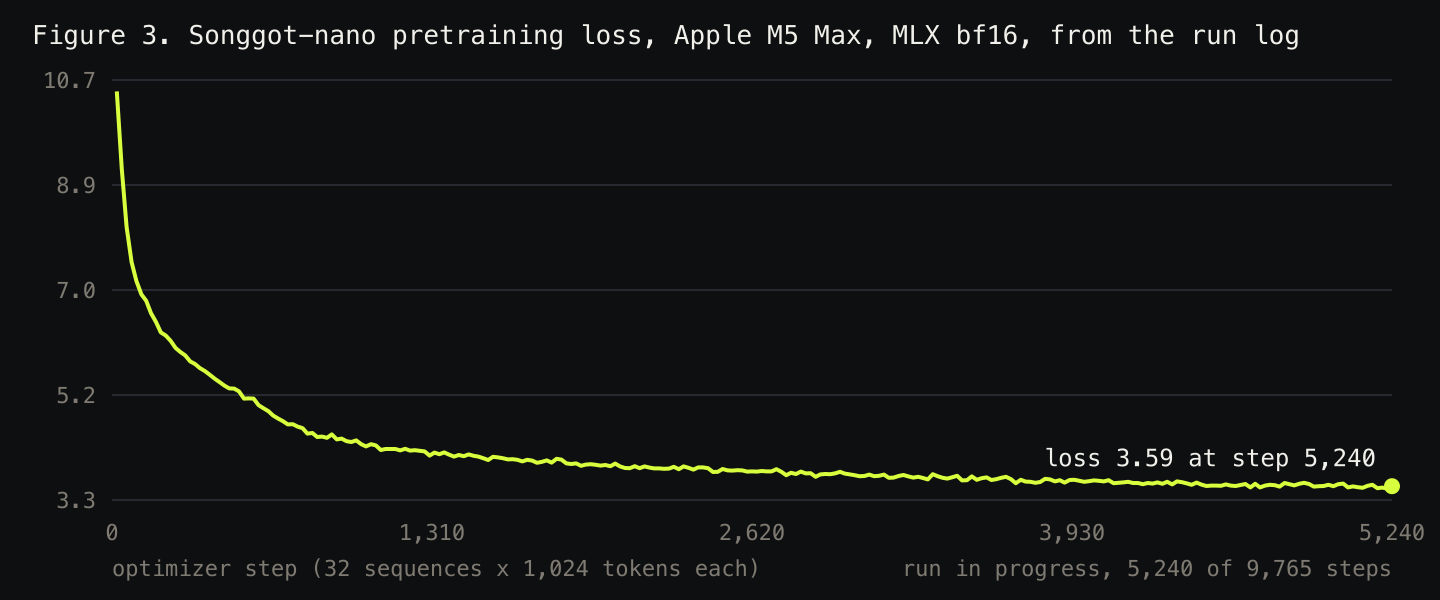
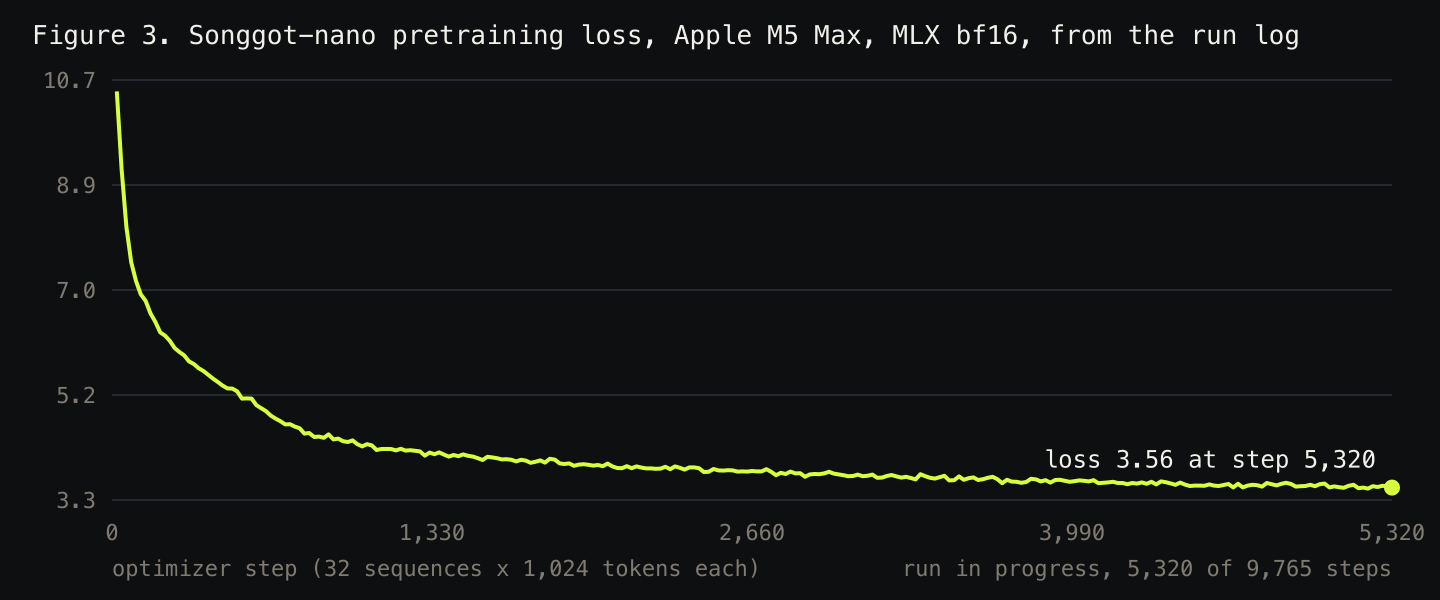
Pocket: per-request stats line, follow-up chips, model chip

diff --git a/docs/index.html b/docs/index.html
@@ -78,7 +78,7 @@ are released under Apache 2.0.</p>
 layers, 39M parameters, pretrained on an Apple M5 Max with MLX (320M tokens); Songgot, 12 layers,
 about 50M parameters, 8xH100 run on 6B tokens queued behind GPU budget.
 Exports to safetensors, GGUF (f16, Q8_0, Q4_K_M) and runs under llama.cpp.</p>
-<figure class="fig"><svg xmlns="http://www.w3.org/2000/svg" viewBox="0 0 720 300" width="100%" role="img" aria-label="Figure 3. Songgot-nano pretraining loss, Apple M5 Max, MLX bf16, from the run log" font-family="IBM Plex Mono, Menlo, monospace" font-size="12"><rect width="720" height="300" fill="#0e0f11"/><text x="16" y="22" fill="#f2f0ea" font-size="13" font-weight="500">Figure 3. Songgot-nano pretraining loss, Apple M5 Max, MLX bf16, from the run log</text><line x1="56" x2="696" y1="250.0" y2="250.0" stroke="#262a30"/><text x="48" y="254.0" fill="#7f7b72" text-anchor="end" font-size="11">3.3</text><line x1="56" x2="696" y1="197.5" y2="197.5" stroke="#262a30"/><text x="48" y="201.5" fill="#7f7b72" text-anchor="end" font-size="11">5.2</text><line x1="56" x2="696" y1="145.0" y2="145.0" stroke="#262a30"/><text x="48" y="149.0" fill="#7f7b72" text-anchor="end" font-size="11">7.0</text><line x1="56" x2="696" y1="92.5" y2="92.5" stroke="#262a30"/><text x="48" y="96.5" fill="#7f7b72" text-anchor="end" font-size="11">8.9</text><line x1="56" x2="696" y1="40.0" y2="40.0" stroke="#262a30"/><text x="48" y="44.0" fill="#7f7b72" text-anchor="end" font-size="11">10.7</text><text x="56.0" y="270" fill="#7f7b72" text-anchor="middle" font-size="11">0</text><text x="216.0" y="270" fill="#7f7b72" text-anchor="middle" font-size="11">1,310</text><text x="376.0" y="270" fill="#7f7b72" text-anchor="middle" font-size="11">2,620</text><text x="536.0" y="270" fill="#7f7b72" text-anchor="middle" font-size="11">3,930</text><text x="696.0" y="270" fill="#7f7b72" text-anchor="middle" font-size="11">5,240</text><path d="M58.4,45.7 L60.9,84.6 L63.3,113.5 L65.8,131.1 L68.2,140.5 L70.7,147.2 L73.1,150.4 L75.5,156.6 L78.0,161.0 L80.4,166.2 L82.9,167.8 L85.3,170.4 L87.8,174.0 L90.2,176.0 L92.6,177.7 L95.1,180.7 L97.5,182.0 L100.0,184.1 L102.4,185.5 L104.9,187.4 L107.3,189.3 L109.7,191.0 L112.2,192.8 L114.6,194.2 L117.1,194.3 L119.5,195.7 L122.0,199.3 L124.4,199.2 L126.8,199.3 L129.3,202.6 L131.7,204.1 L134.2,205.6 L136.6,207.8 L139.1,209.3 L141.5,210.6 L143.9,212.2 L146.4,212.1 L148.8,213.3 L151.3,214.1 L153.7,216.8 L156.2,216.5 L158.6,218.5 L161.0,218.3 L163.5,218.9 L165.9,217.2 L168.4,219.7 L170.8,219.3 L173.3,220.6 L175.7,221.0 L178.1,220.2 L180.6,222.1 L183.0,223.2 L185.5,222.1 L187.9,222.7 L190.4,225.0 L192.8,224.5 L195.2,224.5 L197.7,224.5 L200.1,225.2 L202.6,224.4 L205.0,225.3 L207.5,225.1 L209.9,225.4 L212.3,225.7 L214.8,227.8 L217.2,226.3 L219.7,227.1 L222.1,226.2 L224.5,227.3 L227.0,228.3 L229.4,227.5 L231.9,228.1 L234.3,227.2 L236.8,227.9 L239.2,228.3 L241.6,229.1 L244.1,230.0 L246.5,228.4 L249.0,228.7 L251.4,229.1 L253.9,229.7 L256.3,229.6 L258.7,229.9 L261.2,230.7 L263.6,229.9 L266.1,230.3 L268.5,231.4 L271.0,230.9 L273.4,230.2 L275.8,231.3 L278.3,229.4 L280.7,229.8 L283.2,231.7 L285.6,232.0 L288.1,231.7 L290.5,232.9 L292.9,232.3 L295.4,232.1 L297.8,232.4 L300.3,232.8 L302.7,232.5 L305.2,233.1 L307.6,231.8 L310.0,233.2 L312.5,234.0 L314.9,234.1 L317.4,233.1 L319.8,234.1 L322.3,233.2 L324.7,233.8 L327.1,234.2 L329.6,234.2 L332.0,234.4 L334.5,234.3 L336.9,233.4 L339.4,234.6 L341.8,233.2 L344.2,233.9 L346.7,234.8 L349.1,233.7 L351.6,233.7 L354.0,234.1 L356.5,236.0 L358.9,235.9 L361.3,234.5 L363.8,235.2 L366.2,235.3 L368.7,235.1 L371.1,235.2 L373.6,235.8 L376.0,235.7 L378.4,235.8 L380.9,235.5 L383.3,235.7 L385.8,235.7 L388.2,234.6 L390.7,235.9 L393.1,237.6 L395.5,236.4 L398.0,237.0 L400.4,235.8 L402.9,236.7 L405.3,236.6 L407.8,238.4 L410.2,237.2 L412.6,237.0 L415.1,237.1 L417.5,236.7 L420.0,235.9 L422.4,236.8 L424.9,237.2 L427.3,237.6 L429.7,238.1 L432.2,238.0 L434.6,237.3 L437.1,238.1 L439.5,237.9 L442.0,237.3 L444.4,238.9 L446.8,238.8 L449.3,238.0 L451.7,237.5 L454.2,238.2 L456.6,238.8 L459.1,238.4 L461.5,239.0 L463.9,239.7 L466.4,237.1 L468.8,238.1 L471.3,238.9 L473.7,239.3 L476.2,238.6 L478.6,237.9 L481.0,240.2 L483.5,240.1 L485.9,238.2 L488.4,239.9 L490.8,239.1 L493.3,238.7 L495.7,240.0 L498.1,239.6 L500.6,238.9 L503.0,238.4 L505.5,239.6 L507.9,241.6 L510.4,239.9 L512.8,240.8 L515.2,240.9 L517.7,241.4 L520.1,241.0 L522.6,239.4 L525.0,239.7 L527.5,240.7 L529.9,240.1 L532.3,241.3 L534.8,240.0 L537.2,239.9 L539.7,240.4 L542.1,240.9 L544.5,240.6 L547.0,240.2 L549.4,240.4 L551.9,240.7 L554.3,240.1 L556.8,241.6 L559.2,241.4 L561.6,241.2 L564.1,240.9 L566.5,241.5 L569.0,241.5 L571.4,242.1 L573.9,241.5 L576.3,241.8 L578.7,241.2 L581.2,241.9 L583.6,240.9 L586.1,242.2 L588.5,240.7 L591.0,241.1 L593.4,241.7 L595.8,242.4 L598.3,241.3 L600.7,242.3 L603.2,243.0 L605.6,242.8 L608.1,242.8 L610.5,242.9 L612.9,242.2 L615.4,242.8 L617.8,243.0 L620.3,242.5 L622.7,242.0 L625.2,243.7 L627.6,241.9 L630.0,243.7 L632.5,242.8 L634.9,242.4 L637.4,242.6 L639.8,243.3 L642.3,241.5 L644.7,242.1 L647.1,242.7 L649.6,241.9 L652.0,241.4 L654.5,242.0 L656.9,243.3 L659.4,243.1 L661.8,243.0 L664.2,242.4 L666.7,243.1 L669.1,242.1 L671.6,241.8 L674.0,243.7 L676.5,243.2 L678.9,243.6 L681.3,243.9 L683.8,242.9 L686.2,242.4 L688.7,244.1 L691.1,243.8 L693.6,244.3 L696.0,243.1" fill="none" stroke="#d8ff3d" stroke-width="2" stroke-linejoin="round"/><circle cx="696.0" cy="243.1" r="4" fill="#d8ff3d"/><text x="688.0" y="233.1" fill="#f2f0ea" text-anchor="end">loss 3.59 at step 5,240</text><text x="56" y="288" fill="#7f7b72" font-size="11">optimizer step (32 sequences x 1,024 tokens each)</text><text x="696" y="288" fill="#7f7b72" text-anchor="end" font-size="11">run in progress, 5,240 of 9,765 steps</text></svg><figcaption>Figure 3. Songgot-nano pretraining loss on the Mac, read from the run log</figcaption></figure>
+<figure class="fig"><svg xmlns="http://www.w3.org/2000/svg" viewBox="0 0 720 300" width="100%" role="img" aria-label="Figure 3. Songgot-nano pretraining loss, Apple M5 Max, MLX bf16, from the run log" font-family="IBM Plex Mono, Menlo, monospace" font-size="12"><rect width="720" height="300" fill="#0e0f11"/><text x="16" y="22" fill="#f2f0ea" font-size="13" font-weight="500">Figure 3. Songgot-nano pretraining loss, Apple M5 Max, MLX bf16, from the run log</text><line x1="56" x2="696" y1="250.0" y2="250.0" stroke="#262a30"/><text x="48" y="254.0" fill="#7f7b72" text-anchor="end" font-size="11">3.3</text><line x1="56" x2="696" y1="197.5" y2="197.5" stroke="#262a30"/><text x="48" y="201.5" fill="#7f7b72" text-anchor="end" font-size="11">5.2</text><line x1="56" x2="696" y1="145.0" y2="145.0" stroke="#262a30"/><text x="48" y="149.0" fill="#7f7b72" text-anchor="end" font-size="11">7.0</text><line x1="56" x2="696" y1="92.5" y2="92.5" stroke="#262a30"/><text x="48" y="96.5" fill="#7f7b72" text-anchor="end" font-size="11">8.9</text><line x1="56" x2="696" y1="40.0" y2="40.0" stroke="#262a30"/><text x="48" y="44.0" fill="#7f7b72" text-anchor="end" font-size="11">10.7</text><text x="56.0" y="270" fill="#7f7b72" text-anchor="middle" font-size="11">0</text><text x="216.0" y="270" fill="#7f7b72" text-anchor="middle" font-size="11">1,330</text><text x="376.0" y="270" fill="#7f7b72" text-anchor="middle" font-size="11">2,660</text><text x="536.0" y="270" fill="#7f7b72" text-anchor="middle" font-size="11">3,990</text><text x="696.0" y="270" fill="#7f7b72" text-anchor="middle" font-size="11">5,320</text><path d="M58.4,45.7 L60.8,84.6 L63.2,113.5 L65.6,131.1 L68.0,140.5 L70.4,147.2 L72.8,150.4 L75.2,156.6 L77.7,161.0 L80.1,166.2 L82.5,167.8 L84.9,170.4 L87.3,174.0 L89.7,176.0 L92.1,177.7 L94.5,180.7 L96.9,182.0 L99.3,184.1 L101.7,185.5 L104.1,187.4 L106.5,189.3 L108.9,191.0 L111.3,192.8 L113.7,194.2 L116.2,194.3 L118.6,195.7 L121.0,199.3 L123.4,199.2 L125.8,199.3 L128.2,202.6 L130.6,204.1 L133.0,205.6 L135.4,207.8 L137.8,209.3 L140.2,210.6 L142.6,212.2 L145.0,212.1 L147.4,213.3 L149.8,214.1 L152.2,216.8 L154.6,216.5 L157.1,218.5 L159.5,218.3 L161.9,218.9 L164.3,217.2 L166.7,219.7 L169.1,219.3 L171.5,220.6 L173.9,221.0 L176.3,220.2 L178.7,222.1 L181.1,223.2 L183.5,222.1 L185.9,222.7 L188.3,225.0 L190.7,224.5 L193.1,224.5 L195.5,224.5 L198.0,225.2 L200.4,224.4 L202.8,225.3 L205.2,225.1 L207.6,225.4 L210.0,225.7 L212.4,227.8 L214.8,226.3 L217.2,227.1 L219.6,226.2 L222.0,227.3 L224.4,228.3 L226.8,227.5 L229.2,228.1 L231.6,227.2 L234.0,227.9 L236.5,228.3 L238.9,229.1 L241.3,230.0 L243.7,228.4 L246.1,228.7 L248.5,229.1 L250.9,229.7 L253.3,229.6 L255.7,229.9 L258.1,230.7 L260.5,229.9 L262.9,230.3 L265.3,231.4 L267.7,230.9 L270.1,230.2 L272.5,231.3 L274.9,229.4 L277.4,229.8 L279.8,231.7 L282.2,232.0 L284.6,231.7 L287.0,232.9 L289.4,232.3 L291.8,232.1 L294.2,232.4 L296.6,232.8 L299.0,232.5 L301.4,233.1 L303.8,231.8 L306.2,233.2 L308.6,234.0 L311.0,234.1 L313.4,233.1 L315.8,234.1 L318.3,233.2 L320.7,233.8 L323.1,234.2 L325.5,234.2 L327.9,234.4 L330.3,234.3 L332.7,233.4 L335.1,234.6 L337.5,233.2 L339.9,233.9 L342.3,234.8 L344.7,233.7 L347.1,233.7 L349.5,234.1 L351.9,236.0 L354.3,235.9 L356.8,234.5 L359.2,235.2 L361.6,235.3 L364.0,235.1 L366.4,235.2 L368.8,235.8 L371.2,235.7 L373.6,235.8 L376.0,235.5 L378.4,235.7 L380.8,235.7 L383.2,234.6 L385.6,235.9 L388.0,237.6 L390.4,236.4 L392.8,237.0 L395.2,235.8 L397.7,236.7 L400.1,236.6 L402.5,238.4 L404.9,237.2 L407.3,237.0 L409.7,237.1 L412.1,236.7 L414.5,235.9 L416.9,236.8 L419.3,237.2 L421.7,237.6 L424.1,238.1 L426.5,238.0 L428.9,237.3 L431.3,238.1 L433.7,237.9 L436.2,237.3 L438.6,238.9 L441.0,238.8 L443.4,238.0 L445.8,237.5 L448.2,238.2 L450.6,238.8 L453.0,238.4 L455.4,239.0 L457.8,239.7 L460.2,237.1 L462.6,238.1 L465.0,238.9 L467.4,239.3 L469.8,238.6 L472.2,237.9 L474.6,240.2 L477.1,240.1 L479.5,238.2 L481.9,239.9 L484.3,239.1 L486.7,238.7 L489.1,240.0 L491.5,239.6 L493.9,238.9 L496.3,238.4 L498.7,239.6 L501.1,241.6 L503.5,239.9 L505.9,240.8 L508.3,240.9 L510.7,241.4 L513.1,241.0 L515.5,239.4 L518.0,239.7 L520.4,240.7 L522.8,240.1 L525.2,241.3 L527.6,240.0 L530.0,239.9 L532.4,240.4 L534.8,240.9 L537.2,240.6 L539.6,240.2 L542.0,240.4 L544.4,240.7 L546.8,240.1 L549.2,241.6 L551.6,241.4 L554.0,241.2 L556.5,240.9 L558.9,241.5 L561.3,241.5 L563.7,242.1 L566.1,241.5 L568.5,241.8 L570.9,241.2 L573.3,241.9 L575.7,240.9 L578.1,242.2 L580.5,240.7 L582.9,241.1 L585.3,241.7 L587.7,242.4 L590.1,241.3 L592.5,242.3 L594.9,243.0 L597.4,242.8 L599.8,242.8 L602.2,242.9 L604.6,242.2 L607.0,242.8 L609.4,243.0 L611.8,242.5 L614.2,242.0 L616.6,243.7 L619.0,241.9 L621.4,243.7 L623.8,242.8 L626.2,242.4 L628.6,242.6 L631.0,243.3 L633.4,241.5 L635.8,242.1 L638.3,242.7 L640.7,241.9 L643.1,241.4 L645.5,242.0 L647.9,243.3 L650.3,243.1 L652.7,243.0 L655.1,242.4 L657.5,243.1 L659.9,242.1 L662.3,241.8 L664.7,243.7 L667.1,243.2 L669.5,243.6 L671.9,243.9 L674.3,242.9 L676.8,242.4 L679.2,244.1 L681.6,243.8 L684.0,244.3 L686.4,243.1 L688.8,243.5 L691.2,242.9 L693.6,243.1 L696.0,243.8" fill="none" stroke="#d8ff3d" stroke-width="2" stroke-linejoin="round"/><circle cx="696.0" cy="243.8" r="4" fill="#d8ff3d"/><text x="688.0" y="233.8" fill="#f2f0ea" text-anchor="end">loss 3.56 at step 5,320</text><text x="56" y="288" fill="#7f7b72" font-size="11">optimizer step (32 sequences x 1,024 tokens each)</text><text x="696" y="288" fill="#7f7b72" text-anchor="end" font-size="11">run in progress, 5,320 of 9,765 steps</text></svg><figcaption>Figure 3. Songgot-nano pretraining loss on the Mac, read from the run log</figcaption></figure>
 <h2>3. Tokenizer</h2>
 <p>SentencePiece BPE, 32,000 pieces, byte fallback, digits split, trained on a 300 MB sample:
 Korean Wikipedia 50 percent, fineweb-edu 40 percent, tool-schema JSON 10 percent. Special

diff --git a/app/index.html b/app/index.html
@@ -18,6 +18,7 @@
 body{display:flex;flex-direction:column;height:100dvh}
 header{display:flex;align-items:center;gap:12px;padding:calc(10px + env(safe-area-inset-top)) 16px 10px;border-bottom:1px solid var(--line);background:var(--bg)}
 .logo{font-family:"Black Han Sans",sans-serif;font-size:20px;letter-spacing:.01em}.logo span{color:var(--accent)}
+.model{font-family:"IBM Plex Mono",monospace;font-size:11px;color:var(--ink3);border:1px solid var(--line);border-radius:999px;padding:3px 9px;margin-left:6px}
 .status{margin-left:auto;font-family:"IBM Plex Mono",monospace;font-size:11px;color:var(--ink3);text-transform:uppercase;letter-spacing:.1em;display:flex;align-items:center;gap:8px}
 .dot{width:8px;height:8px;border-radius:50%;background:var(--ink3)}.dot.ok{background:var(--accent)}.dot.busy{background:#ffb84d}
 .bar{height:2px;background:var(--line);position:relative}.bar i{position:absolute;left:0;top:0;height:100%;width:0;background:var(--accent);transition:width .2s}
@@ -47,7 +48,7 @@ details.raw{margin-top:8px;font-family:"IBM Plex Mono",monospace;font-size:12px;
 </head>
 <body>
 <header>
-  <div class="logo">songgot · <span>pocket</span></div>
+  <div class="logo">songgot · <span>pocket</span></div><div class="model" id="model">Songgot-nano · Q8_0 · 39M</div>
   <div class="status"><span class="dot" id="dot"></span><span id="status">loading</span></div>
 </header>
 <div class="bar"><i id="bar"></i></div>
@@ -57,7 +58,7 @@ details.raw{margin-top:8px;font-family:"IBM Plex Mono",monospace;font-size:12px;
   <input id="input" placeholder="무엇을 도와드릴까요? (예: 내일 아침 7시에 알람 맞춰줘)" aria-label="요청" enterkeyhint="send">
   <button class="send" id="send" type="submit" disabled>보내기</button>
 </form>
-<div class="foot">기기 안에서만 실행됩니다. 서버로 전송되는 데이터가 없습니다. Songgot 39M, Apache 2.0 · <a href="../">paper</a></div>
+<div class="foot">기기 안에서만 실행됩니다. 서버로 전송되는 데이터가 없습니다. Runs entirely on this device, nothing leaves it. Songgot 39M, Apache 2.0 · <a href="../">paper</a></div>
 <script type="module" src="app.js"></script>
 </body>
 </html>

diff --git a/docs/app/index.html b/docs/app/index.html
@@ -18,6 +18,7 @@
 body{display:flex;flex-direction:column;height:100dvh}
 header{display:flex;align-items:center;gap:12px;padding:calc(10px + env(safe-area-inset-top)) 16px 10px;border-bottom:1px solid var(--line);background:var(--bg)}
 .logo{font-family:"Black Han Sans",sans-serif;font-size:20px;letter-spacing:.01em}.logo span{color:var(--accent)}
+.model{font-family:"IBM Plex Mono",monospace;font-size:11px;color:var(--ink3);border:1px solid var(--line);border-radius:999px;padding:3px 9px;margin-left:6px}
 .status{margin-left:auto;font-family:"IBM Plex Mono",monospace;font-size:11px;color:var(--ink3);text-transform:uppercase;letter-spacing:.1em;display:flex;align-items:center;gap:8px}
 .dot{width:8px;height:8px;border-radius:50%;background:var(--ink3)}.dot.ok{background:var(--accent)}.dot.busy{background:#ffb84d}
 .bar{height:2px;background:var(--line);position:relative}.bar i{position:absolute;left:0;top:0;height:100%;width:0;background:var(--accent);transition:width .2s}
@@ -47,7 +48,7 @@ details.raw{margin-top:8px;font-family:"IBM Plex Mono",monospace;font-size:12px;
 </head>
 <body>
 <header>
-  <div class="logo">songgot · <span>pocket</span></div>
+  <div class="logo">songgot · <span>pocket</span></div><div class="model" id="model">Songgot-nano · Q8_0 · 39M</div>
   <div class="status"><span class="dot" id="dot"></span><span id="status">loading</span></div>
 </header>
 <div class="bar"><i id="bar"></i></div>
@@ -57,7 +58,7 @@ details.raw{margin-top:8px;font-family:"IBM Plex Mono",monospace;font-size:12px;
   <input id="input" placeholder="무엇을 도와드릴까요? (예: 내일 아침 7시에 알람 맞춰줘)" aria-label="요청" enterkeyhint="send">
   <button class="send" id="send" type="submit" disabled>보내기</button>
 </form>
-<div class="foot">기기 안에서만 실행됩니다. 서버로 전송되는 데이터가 없습니다. Songgot 39M, Apache 2.0 · <a href="../">paper</a></div>
+<div class="foot">기기 안에서만 실행됩니다. 서버로 전송되는 데이터가 없습니다. Runs entirely on this device, nothing leaves it. Songgot 39M, Apache 2.0 · <a href="../">paper</a></div>
 <script type="module" src="app.js"></script>
 </body>
 </html>

diff --git a/app/app.js b/app/app.js
@@ -107,9 +107,21 @@ function renderCall(r) {
     const acts = actionsFor(r.call); if (acts.length) { const act = el("div", "act"); acts.forEach((x) => act.appendChild(x)); card.appendChild(act); }
     wrap.appendChild(card);
   }
-  const det = el("details", "raw"); det.appendChild(el("summary", "", `모델 출력 · ${r.ms} ms · 후보 도구 ${r.candidates.map((t) => t.name).join(", ")}`)); const pre = el("pre", "", r.text); det.appendChild(pre); wrap.appendChild(det);
+  const det = el("details", "raw"); const u = r.usage || {}; const gen = u.completion_tokens || 0; const tps = gen && r.ms ? (gen / (r.ms / 1000)).toFixed(1) : "-";
+  wrap.appendChild(el("div", "meta", `${u.prompt_tokens || "-"} prompt tok · ${gen} gen tok · ${tps} tok/s · ${r.ms} ms · on device`));
+  det.appendChild(el("summary", "", `모델 출력 · 후보 도구 ${r.candidates.map((t) => t.name).join(", ")}`)); const pre = el("pre", "", r.text); det.appendChild(pre); wrap.appendChild(det);
   push(wrap);
+  if (r.call && r.call.name && r.call.name !== "none") followups(r.call.name);
   return wrap;
+}
+function followups(name) {
+  const F = [[/alarm|timer|reminder/, ["30분 뒤로 미뤄줘", "알람 취소해줘", "매일 반복해줘"]], [/weather/, ["내일은?", "주말 날씨 알려줘", "미세먼지는?"]],
+             [/navigat|transit|route|bus|subway|taxi/, ["차로 가면 얼마나 걸려?", "택시 불러줘", "근처 맛집 찾아줘"]], [/music|play|song/, ["다음 곡", "볼륨 줄여줘", "잔잔한 노래 틀어줘"]],
+             [/message|chat|sms|mail|call|phone/, ["10분 늦는다고 보내줘", "아빠한테도 보내줘", "전화 걸어줘"]], [/calendar|event|schedule|meeting/, ["다음 주 같은 시간에도 잡아줘", "장소는 강남으로", "내일 일정 알려줘"]]];
+  const hit = F.find(([re]) => re.test(name)); if (!hit) return;
+  const row = el("div", "chips"); row.style.padding = "0"; row.style.alignSelf = "flex-start";
+  hit[1].forEach((t) => { const c = el("button", "chip", t); c.type = "button"; c.onclick = () => { row.remove(); handle(t); }; row.appendChild(c); });
+  push(row);
 }
 
 // ---------- chat loop ----------

diff --git a/docs/app/app.js b/docs/app/app.js
@@ -107,9 +107,21 @@ function renderCall(r) {
     const acts = actionsFor(r.call); if (acts.length) { const act = el("div", "act"); acts.forEach((x) => act.appendChild(x)); card.appendChild(act); }
     wrap.appendChild(card);
   }
-  const det = el("details", "raw"); det.appendChild(el("summary", "", `모델 출력 · ${r.ms} ms · 후보 도구 ${r.candidates.map((t) => t.name).join(", ")}`)); const pre = el("pre", "", r.text); det.appendChild(pre); wrap.appendChild(det);
+  const det = el("details", "raw"); const u = r.usage || {}; const gen = u.completion_tokens || 0; const tps = gen && r.ms ? (gen / (r.ms / 1000)).toFixed(1) : "-";
+  wrap.appendChild(el("div", "meta", `${u.prompt_tokens || "-"} prompt tok · ${gen} gen tok · ${tps} tok/s · ${r.ms} ms · on device`));
+  det.appendChild(el("summary", "", `모델 출력 · 후보 도구 ${r.candidates.map((t) => t.name).join(", ")}`)); const pre = el("pre", "", r.text); det.appendChild(pre); wrap.appendChild(det);
   push(wrap);
+  if (r.call && r.call.name && r.call.name !== "none") followups(r.call.name);
   return wrap;
+}
+function followups(name) {
+  const F = [[/alarm|timer|reminder/, ["30분 뒤로 미뤄줘", "알람 취소해줘", "매일 반복해줘"]], [/weather/, ["내일은?", "주말 날씨 알려줘", "미세먼지는?"]],
+             [/navigat|transit|route|bus|subway|taxi/, ["차로 가면 얼마나 걸려?", "택시 불러줘", "근처 맛집 찾아줘"]], [/music|play|song/, ["다음 곡", "볼륨 줄여줘", "잔잔한 노래 틀어줘"]],
+             [/message|chat|sms|mail|call|phone/, ["10분 늦는다고 보내줘", "아빠한테도 보내줘", "전화 걸어줘"]], [/calendar|event|schedule|meeting/, ["다음 주 같은 시간에도 잡아줘", "장소는 강남으로", "내일 일정 알려줘"]]];
+  const hit = F.find(([re]) => re.test(name)); if (!hit) return;
+  const row = el("div", "chips"); row.style.padding = "0"; row.style.alignSelf = "flex-start";
+  hit[1].forEach((t) => { const c = el("button", "chip", t); c.type = "button"; c.onclick = () => { row.remove(); handle(t); }; row.appendChild(c); });
+  push(row);
 }
 
 // ---------- chat loop ----------
